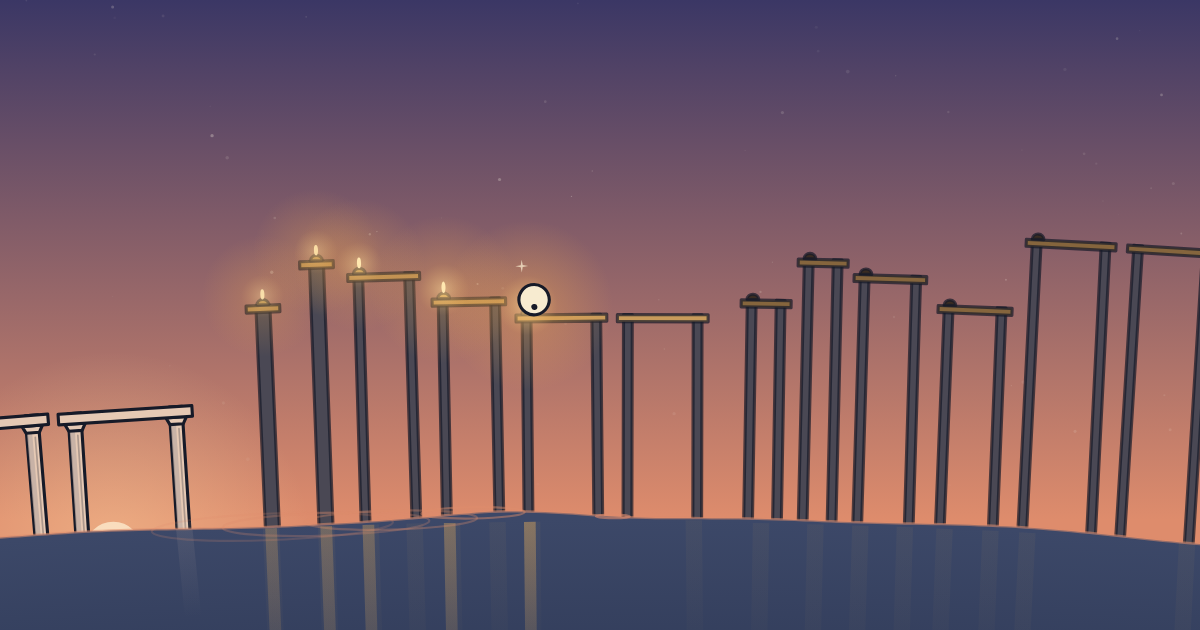
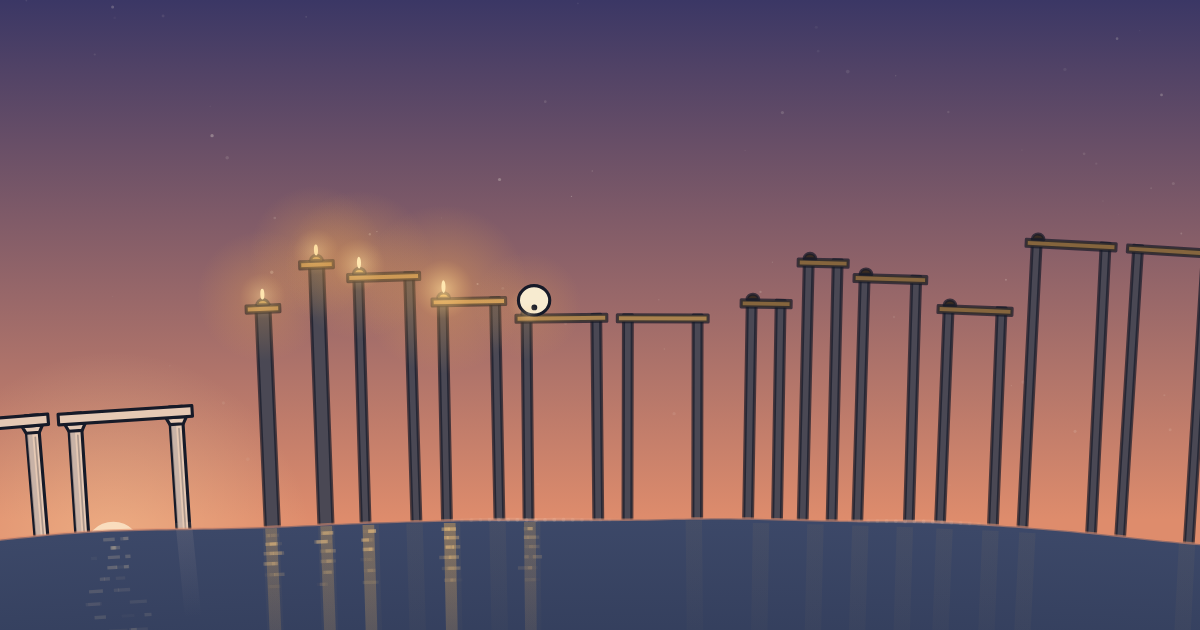
Gymnopédie: the grace note's spark reads; the write-up and the card follow
The spark a grace note strikes where the ball is about to land is larger
and slower to fade, so it reads as the ball striking a light at the wick
before the lamp catches. GYMNOPEDIE.md gains the story (a lamplighter's
round) and a section on how each voice is answered. The versions README
and the show's line say the same. The share card is re-rendered at its
still (211.6 s).

diff --git a/apps/rube/src/shows/versions/gymnopedie/orbit/scene.ts b/apps/rube/src/shows/versions/gymnopedie/orbit/scene.ts
@@ -662,11 +662,11 @@ export const glints = scenery<null>('glints', () => {}, (p, _s, c) => {
   // A grace note's spark, just ahead of the ball.
   for (const g of SPARKS) {
     const s = since(c.t, g.t)
-    if (s < 0 || s > 0.5) continue
-    const a = (1 - Math.exp(-s / 0.012)) * Math.exp(-s / 0.13)
+    if (s < 0 || s > 0.7) continue
+    const a = (1 - Math.exp(-s / 0.012)) * Math.exp(-s / 0.2)
     const [x, y] = polar(g.u, g.h)
     ctx.save()
-    const r = k * (0.05 + 0.06 * Math.min(1, s / 0.2))
+    const r = k * (0.08 + 0.12 * Math.min(1, s / 0.25))
     const glow = ctx.createRadialGradient(x * k, y * k, 0, x * k, y * k, r)
     glow.addColorStop(0, `rgba(255, 246, 220, ${(0.95 * a).toFixed(3)})`)
     glow.addColorStop(0.3, `rgba(255, 214, 150, ${(0.5 * a).toFixed(3)})`)

diff --git a/apps/rube/src/shows/versions/gymnopedie/opus55.show.ts b/apps/rube/src/shows/versions/gymnopedie/opus55.show.ts
@@ -7,7 +7,7 @@ import { defineShow } from '../../registry'
 export default defineShow({
   title: 'Gymnopédie',
   label: 'Opus 5.5',
-  about: "Satie's Gymnopédie No. 1 and two Gnossiennes, as a Rube Goldberg machine going round a small sea planet, forever.",
+  about: "Satie's Gymnopédie No. 1 and two Gnossiennes, as a Rube Goldberg machine going round a small sea planet, lighting its lamps at dusk, forever.",
   still: 211.6,
   async load() { return (await import('./orbit')).performance },
 })

diff --git a/apps/rube/src/shows/versions/gymnopedie/GYMNOPEDIE.md b/apps/rube/src/shows/versions/gymnopedie/GYMNOPEDIE.md
@@ -38,9 +38,11 @@ CC BY-SA 4.0; samples CC BY 3.0 (Alexander Holm); the recording CC BY-SA 4.0.
   so at the end the ball is where it began, on the same stone, going the same way at the same speed. The camera turns a
   whole turn with it. Every shimmer runs on a whole number of cycles a period (`osc`). The day's colours are keyed to
   show time with the last key equal to the first. The ball's spin is rounded to whole turns a period.
-- At the seam the camera is all the way out: the planet small in the dark, the last resonance going. The title comes up
-  over it as the Gymnopédie's first bars begin, and the camera goes down to the ball on the first column as the melody
-  enters.
+- At the seam the camera is all the way out: the planet small in the dark, ringed with what the ball did in the night,
+  the last resonance going. The title comes up over it as the Gymnopédie's first bars begin, and the camera goes down
+  to the ball on the first column as the melody enters. On the way out and back in it keeps the ball's horizon in the
+  picture, curving away under the stars, and slides to the planet's middle only once the planet is nearly all in the
+  frame (`slideAt`), so the planet's dark face never fills it.
 
 ## The machine
 
@@ -50,16 +52,52 @@ low-gravity arc. A second quick note on the same stone is a small bounce (the th
 note whose key the chords strike again answers with a pulse. The ball goes as the music does: quick through the
 eighths, slow over the long notes, never stopping.
 
-One material a piece: the Gymnopédie at dawn and through the morning, slender columns and lintels in the sea; the
-first Gnossienne from dusk into the night, bronze beams on dark posts, each with a lamp the ball lights as it lands and
-which burns down slowly behind it, a thread of lights; the third Gnossienne under the moon, lotus leaves on stems, the
-long ones with a flower that opens when the ball comes. Every bass note sends a slow swell out across the sea from
-under the ball. A grace note is a glint on the ball just before it lands. Between the pieces the camera goes out over
-the curve of the planet to the sun going down, the lamps, the moon.
+One material a piece: the Gymnopédie at dawn and through the day, slender columns and lintels in the sea; the first
+Gnossienne from dusk into the night, bronze beams on dark posts, each with a lamp the ball lights as it lands; the
+third Gnossienne under the moon, lotus leaves on stems, floating, the long ones with a bud that opens into a flower
+when the ball comes. Between the pieces the camera goes out over the curve of the planet to the sun going down, the
+lamps, the moon.
+
+## The story
+
+A lamplighter's round, one day long. By day the ball walks the colonnade under the sun. At dusk it lights a lamp on
+every stone it comes down on, and under the moon it opens the flowers; what it does at night stays done, so behind it
+the lamps burn and the flowers are open, and ahead of it the lamps are dark and the flowers are buds. From far off the
+lamps are a thread of lights over the curve of the planet (the wide between the Gnossiennes), and at the seam the
+whole planet is ringed with them and, fainter, with the flowers: the night's way round, and dark on the day's side.
+Then dawn comes round, the lamps go out one by one and the flowers close (7 to 34 s), and the ball sets off again.
+
+## The music, answered
+
+One job to a voice, each answering its own notes from `satie-performance.json`:
+
+- The melody: the stones and the landings. Coming down on a note the ball gives up a little of its height, as far as
+  the note was played hard, and gets it back with a small rebound (`squash`); the stone sinks under it the same way.
+- The bass: the sea. Each bass note raises a swell under the ball that parts into two crests running out along the
+  sea either way at twice the ball's pace, dying over a few seconds; the crests catch the light, and the third
+  Gnossienne's leaves ride them (`swell`, `crest`, `float`).
+- The chords: the light on the water. Under the sun, under each lit lamp and under the moon lies a path of short
+  strokes of light on the sea, and each chord (its rolled notes heard as one) sets a different few of them flashing, as
+  hard as it was played, dying over half a second (`waterLight`).
+- A grace note: a spark where the ball is about to land, a breath before it does; in the first Gnossienne, at the
+  lamp's wick, which then catches.
+- The phrasing: the camera. It drifts out on a held note, more on a longer one, and in again as the next phrase
+  begins, following the melody like a slow spring, so a run of quick notes stays close and a run of long ones eases
+  back (`breath`). Its keys shape each piece: close as the first Gnossienne climbs to its top note, back over the thread
+  of lamps as it comes down; lower over the pond in the third, where the water and the moon's path are more of the
+  picture.
+- Loudness: the render's own level barely moves (a soft, pedalled piano), so the show answers how full the music is,
+  worked out from the notes (every note's weight, dying away, smoothed over a few seconds; `loudness`). It sets how
+  high the swells stand and how bright the light on the water is: calm in the Gymnopédie's long notes, fullest where the
+  Gnossiennes run on.
 
 ## Checks
 
 `check:shows` (`apps/rube/checks/gymnopedie.ts`): the picker entry, the credit, the three pieces in order; the loop
 (period, offset, a transport that goes round, the last moment equal to the first for the ball and the camera, a time a
 period on the same time); the ball never jumps, the seam included; every landing, bounce and restrike is a melody
-note's own attack and every melody note is one; the ball arrives on each stone as its note is struck; the titles.
+note's own attack and every melody note is one; the ball arrives on each stone as its note is struck, riding it; it
+squashes on every landing and bounce and at no other time; every bass note sends out a swell; every chord note belongs
+to one heard chord; the camera breathes only on held melody notes, never jumps in or out, and its breath and the
+loudness come round with the period; every lamp is dark until the ball lights it and burns until dawn, and every
+flower opens as the ball comes and closes at dawn, across the seam; the titles.

diff --git a/apps/rube/src/shows/versions/README.md b/apps/rube/src/shows/versions/README.md
@@ -261,7 +261,10 @@ loop gaplessly from a decoded buffer at 1× (`soundtrack.ts`). The music is play
 `scripts/shows/satie-render.py` from the Mutopia Project's engravings on the Salamander Grand Piano's samples (CC BY 3.0),
 rendered as one period of a circle, and every note as it lands is written to
 `scripts/shows/plans/satie-performance.json`, which the show is timed to and `check:shows` holds it against
-(`apps/rube/checks/gymnopedie.ts`). The code is `gymnopedie/orbit/`. Licences:
+(`apps/rube/checks/gymnopedie.ts`). Each voice has one job: the melody the stones and the landings, the bass a swell
+on the sea, the chords the light on the water, the phrasing the camera's breath; and the lamps the ball lights at dusk
+and the flowers it opens under the moon stay lit and open until dawn, so the seam's wide shot is the planet ringed with
+its night. The code is `gymnopedie/orbit/`. Licences:
 `apps/rube/src/shows/versions/gymnopedie/ATTRIBUTION.txt`; the report is `apps/rube/src/shows/versions/gymnopedie/GYMNOPEDIE.md`.
 
 `caravan/opus55` (in the picker, **Caravan**, one take, **Opus 5.5**) is "Caravan" from the *Whiplash* soundtrack
